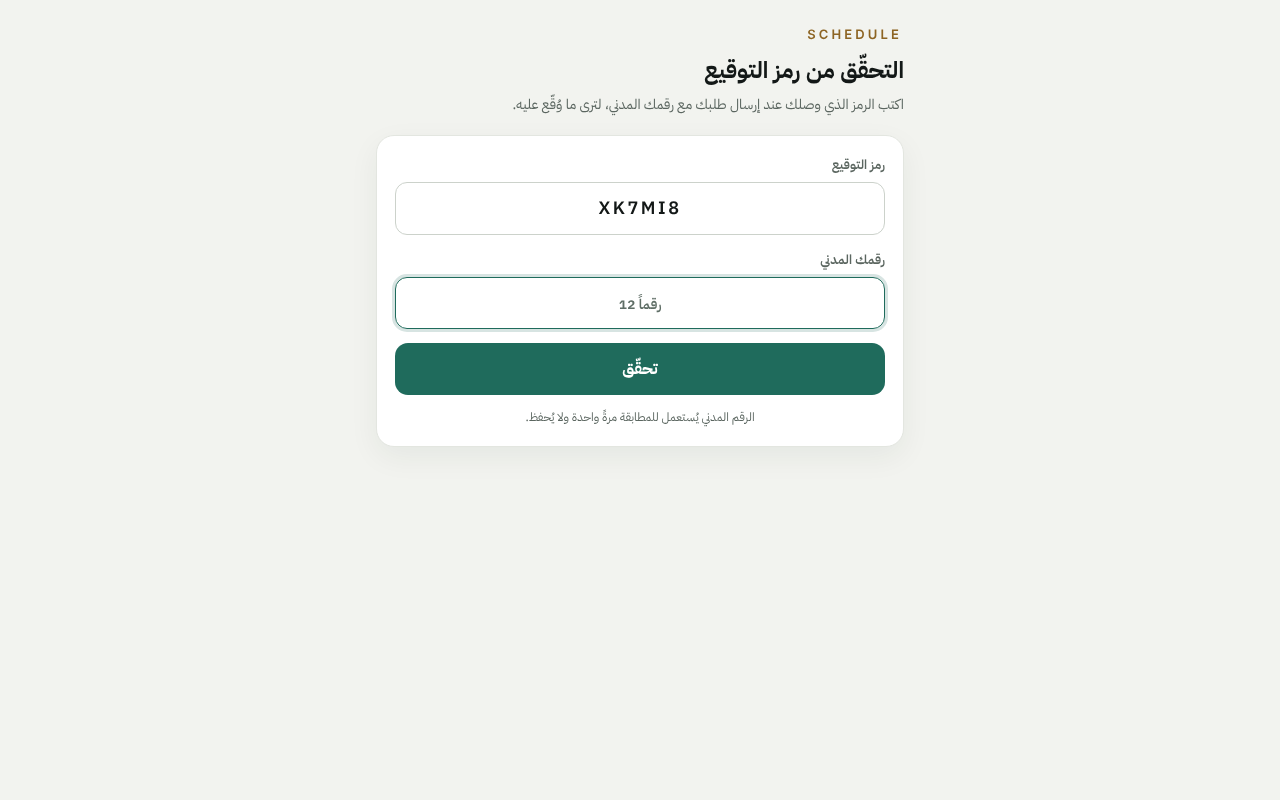
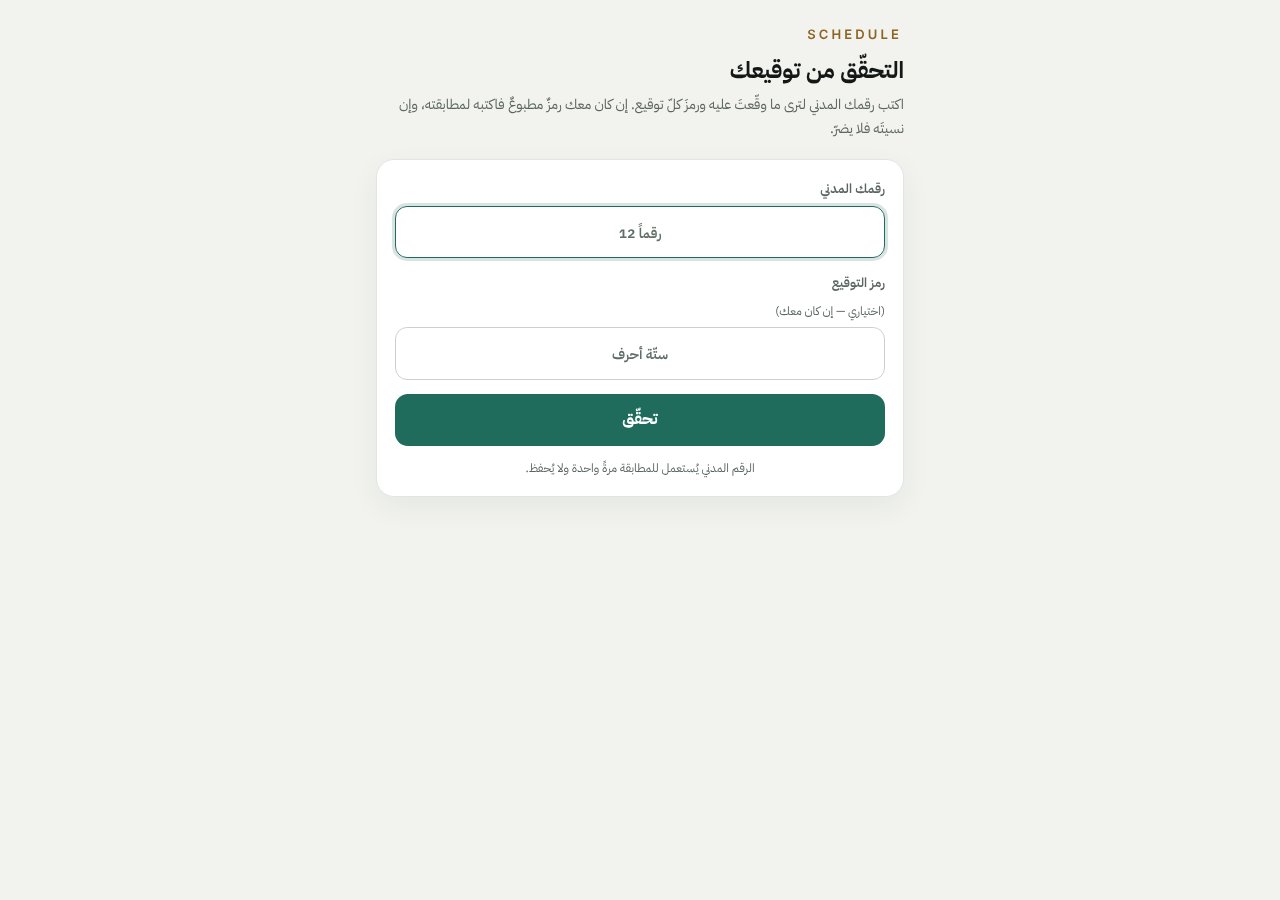
صفحة التحقّق: التوقيعات المطويّة عليها سهمٌ وعبارة تدلّ أنها تُفتح، ولقطات الشاشة الجديدة
Claude-Session: https://claude.ai/code/session_01AdKRVbcQ9dAGCBRHnaHCyL

diff --git a/src/server/signatureVerifyPage.ts b/src/server/signatureVerifyPage.ts
@@ -49,8 +49,13 @@ dt{color:var(--muted)}dd{margin:0;font-weight:600}
 .sigs{display:grid;gap:10px}
 .sig{border:1px solid var(--line);border-radius:14px;background:var(--card2);padding:12px 13px}
 .sig[data-hit="1"]{border-color:var(--accent);background:var(--accent-soft)}
-.sig>summary{cursor:pointer;list-style:none;min-height:44px;display:flex;align-items:center}
+.sig>summary{position:relative;cursor:pointer;list-style:none;min-height:44px;display:block;padding-inline-end:24px}
 .sig>summary::-webkit-details-marker{display:none}
+.sig>summary::after{content:"";position:absolute;inset-inline-end:4px;top:50%;width:8px;height:8px;border:solid var(--muted);border-width:0 2px 2px 0;transform:translateY(-75%) rotate(45deg);transition:transform .15s}
+.sig[open]>summary::after{transform:translateY(-25%) rotate(-135deg)}
+.sig>summary:focus-visible{outline:3px solid rgba(31,107,92,.3);outline-offset:3px;border-radius:10px}
+.more{display:block;margin-top:2px;color:var(--accent);font-size:12px;font-weight:600}
+@media (prefers-reduced-motion:reduce){.sig>summary::after{transition:none}}
 .sig-head{display:flex;flex-wrap:wrap;align-items:center;justify-content:space-between;gap:6px 12px;width:100%}
 .sig-head b{font-size:15px}
 .sig-head small{color:var(--muted);font-size:12.5px}
@@ -96,7 +101,7 @@ function sigHtml(s,k,hit){
  var head='<div class="sig-head"><span><b>'+esc(s.termName||"")+'</b><br><small>'+esc(when(s.signedAt))+'</small></span><span class="code">'+esc(s.code)+'</span></div>';
  /* الأولُ مفتوح، وما بعده مطويّ: صفحةٌ قصيرة لمن له توقيعٌ واحد، ومنظّمة لمن له أكثر. */
  return k===0?'<div class="sig" data-hit="'+(hit?1:0)+'">'+head+itemsHtml(s)+'</div>'
-  :'<details class="sig" data-hit="'+(hit?1:0)+'"><summary>'+head+'</summary>'+itemsHtml(s)+'</details>'}
+  :'<details class="sig" data-hit="'+(hit?1:0)+'"><summary>'+head+'<small class="more">اضغط لعرض ما وُقّع عليه</small></summary>'+itemsHtml(s)+'</details>'}
 function show(d){
  msg.innerHTML="";form.hidden=true;out.hidden=false;
  var sigs=d.signatures||[],name=sigs[0]&&sigs[0].instructorName||"";

diff --git a/src/utils/arabicCount.ts b/src/utils/arabicCount.ts
@@ -173,7 +173,6 @@ export const AR = {
   gap:         { one: "فراغ", two: "فراغان", few: "فراغات", many: "فراغاً" },
   edit:        { one: "تعديل", two: "تعديلان", few: "تعديلات", many: "تعديلاً" },
   signature:   { one: "توقيع", two: "توقيعان", few: "توقيعات", many: "توقيعاً" },
-  second:      { one: "ثانية", two: "ثانيتان", few: "ثوانٍ", many: "ثانية" },
   item:        { one: "بند", two: "بندان", few: "بنود", many: "بنداً" },
   slot:        { one: "خانة", two: "خانتان", few: "خانات", many: "خانة" },
   bond:        { one: "ارتباط", two: "ارتباطان", few: "ارتباطات", many: "ارتباطاً" },
